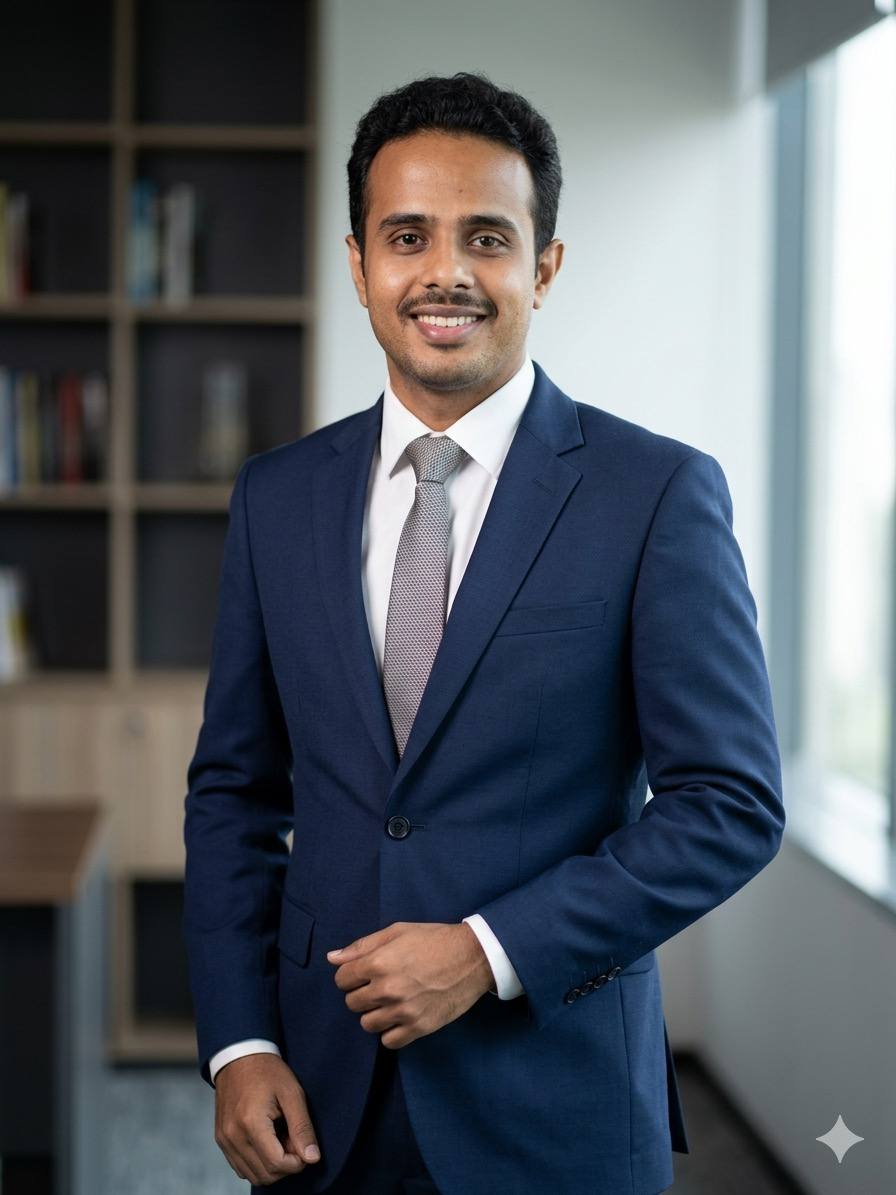
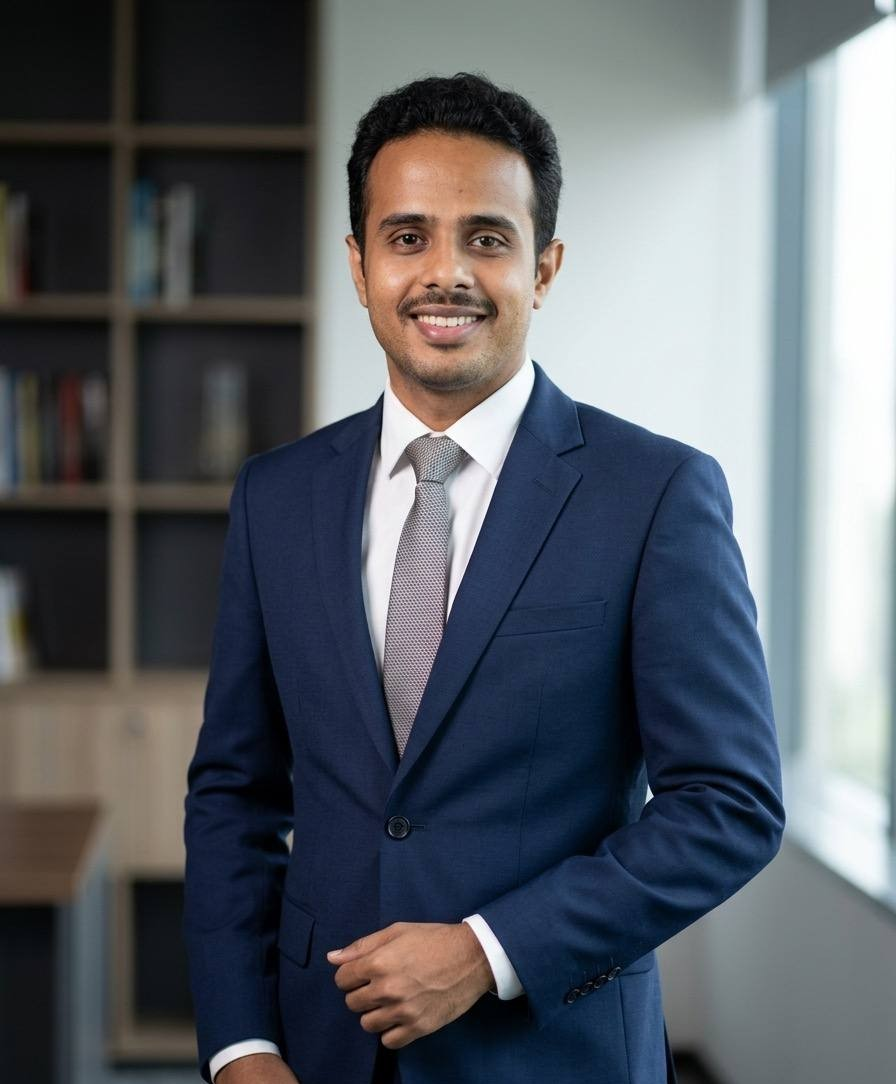
Add Dan Shop live website link

diff --git a/index.html b/index.html
@@ -152,6 +152,14 @@
                 <span>Next.js 16</span><span>React 19</span><span>TypeScript</span>
                 <span>PostgreSQL</span><span>Prisma</span>
               </div>
+              <a
+                class="project-live-link"
+                href="https://dan-shop.vercel.app/"
+                target="_blank"
+                rel="noreferrer"
+              >
+                Visit live website <span aria-hidden="true">↗</span>
+              </a>
             </div>
             <div class="project-aside">
               <p>Built for secure, real-world operations</p>

diff --git a/out/index.html b/out/index.html
@@ -152,6 +152,14 @@
                 <span>Next.js 16</span><span>React 19</span><span>TypeScript</span>
                 <span>PostgreSQL</span><span>Prisma</span>
               </div>
+              <a
+                class="project-live-link"
+                href="https://dan-shop.vercel.app/"
+                target="_blank"
+                rel="noreferrer"
+              >
+                Visit live website <span aria-hidden="true">↗</span>
+              </a>
             </div>
             <div class="project-aside">
               <p>Built for secure, real-world operations</p>

diff --git a/out/stylesheet.css b/out/stylesheet.css
@@ -519,6 +519,25 @@ a {
   font-weight: 700;
 }
 
+.project-live-link {
+  display: inline-flex;
+  min-height: 44px;
+  align-items: center;
+  gap: 9px;
+  margin-top: 28px;
+  padding-bottom: 4px;
+  border-bottom: 1px solid var(--accent);
+  color: var(--accent-dark);
+  font-size: 0.88rem;
+  font-weight: 700;
+  transition: color 180ms ease, border-color 180ms ease;
+}
+
+.project-live-link:hover {
+  border-color: var(--ink);
+  color: var(--ink);
+}
+
 .project-grid {
   display: grid;
   grid-template-columns: repeat(2, 1fr);

diff --git a/stylesheet.css b/stylesheet.css
@@ -519,6 +519,25 @@ a {
   font-weight: 700;
 }
 
+.project-live-link {
+  display: inline-flex;
+  min-height: 44px;
+  align-items: center;
+  gap: 9px;
+  margin-top: 28px;
+  padding-bottom: 4px;
+  border-bottom: 1px solid var(--accent);
+  color: var(--accent-dark);
+  font-size: 0.88rem;
+  font-weight: 700;
+  transition: color 180ms ease, border-color 180ms ease;
+}
+
+.project-live-link:hover {
+  border-color: var(--ink);
+  color: var(--ink);
+}
+
 .project-grid {
   display: grid;
   grid-template-columns: repeat(2, 1fr);
